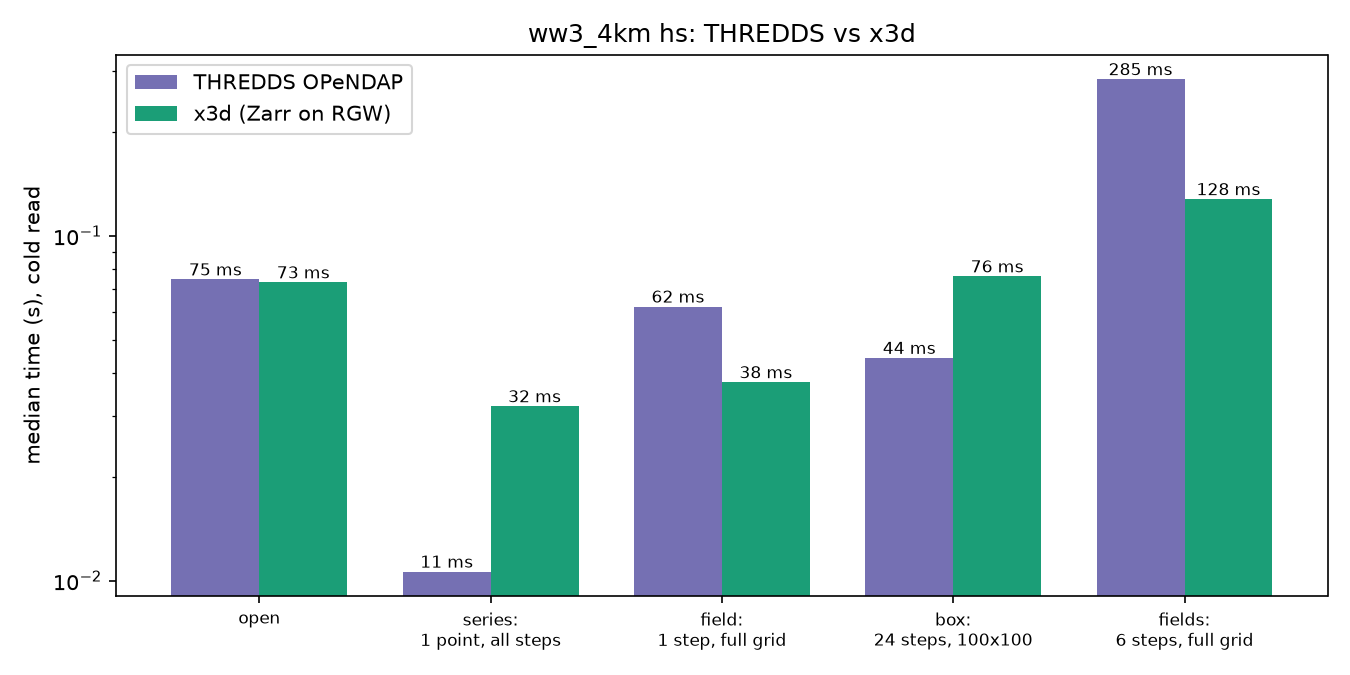
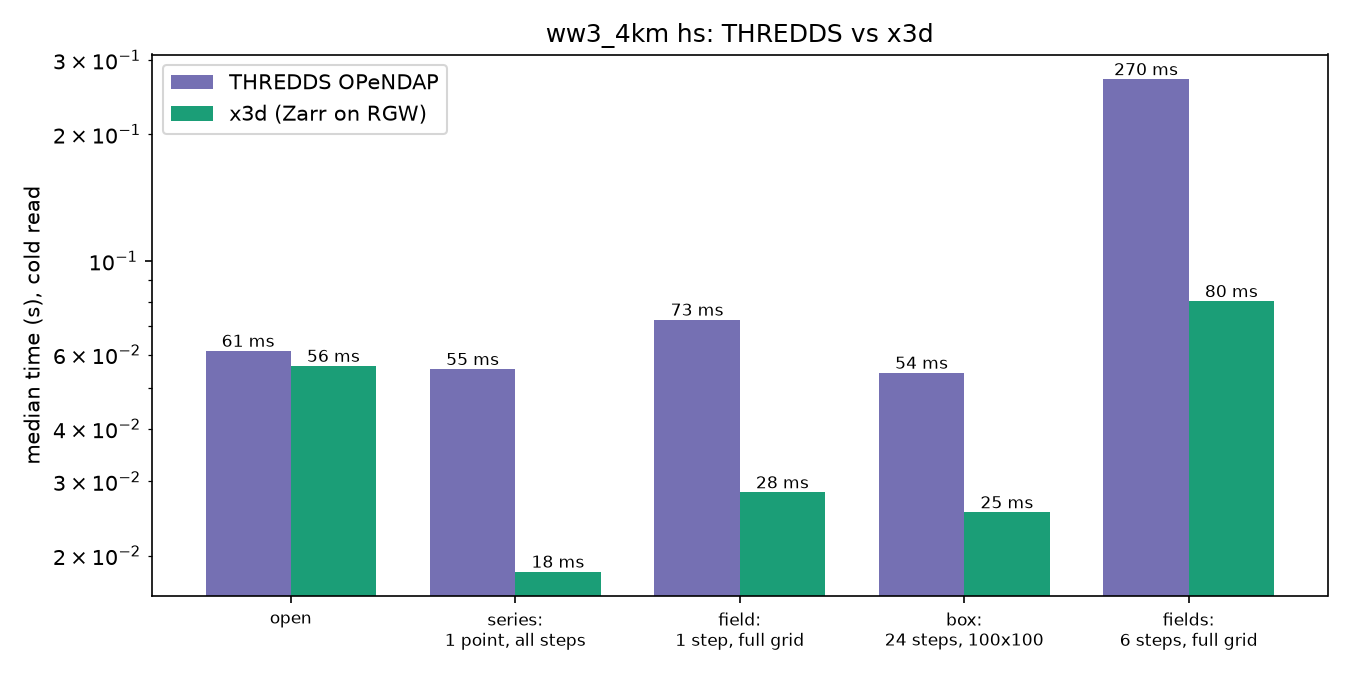
Cache DNS lookups in the HTTP store
ureq re-resolves the host on every request, even on pooled connections,
costing ~12 ms per request on a stub resolver. Wrap the default resolver
with a 60 s cache. Regenerate benchmark plot.

diff --git a/src/store.rs b/src/store.rs
@@ -2,8 +2,40 @@
 
 use crate::error::{Error, Result};
 use std::io::{Read, Seek, SeekFrom};
+use std::collections::HashMap;
 use std::path::PathBuf;
-use std::time::Duration;
+use std::sync::Mutex;
+use std::time::{Duration, Instant};
+use ureq::Agent;
+use ureq::config::Config;
+use ureq::unversioned::resolver::{DefaultResolver, ResolvedSocketAddrs, Resolver};
+use ureq::unversioned::transport::{DefaultConnector, NextTimeout};
+use ureq::http::Uri;
+
+/// ureq resolves the host for every request, even when it reuses a pooled connection. On a
+/// stub resolver that costs ~12 ms (uncached AAAA lookup) per request, several times the cost of
+/// the request itself, so remember lookups for a while.
+#[derive(Debug, Default)]
+struct CachingResolver {
+    inner: DefaultResolver,
+    cache: Mutex<HashMap<String, (Instant, ResolvedSocketAddrs)>>,
+}
+
+const DNS_TTL: Duration = Duration::from_secs(60);
+
+impl Resolver for CachingResolver {
+    fn resolve(&self, uri: &Uri, config: &Config, timeout: NextTimeout) -> std::result::Result<ResolvedSocketAddrs, ureq::Error> {
+        let key = uri.authority().map(|a| a.to_string()).unwrap_or_default();
+        if let Some((at, addrs)) = self.cache.lock().unwrap().get(&key) {
+            if at.elapsed() < DNS_TTL {
+                return Ok(addrs.clone());
+            }
+        }
+        let addrs = self.inner.resolve(uri, config, timeout)?;
+        self.cache.lock().unwrap().insert(key, (Instant::now(), addrs.clone()));
+        Ok(addrs)
+    }
+}
 
 #[derive(Debug, Clone, Copy, PartialEq, Eq)]
 pub enum ByteRange {
@@ -26,12 +58,12 @@ impl Store {
     /// `root` is an `http(s)://` URL, a `file://` URL or a plain path.
     pub fn open(root: &str) -> Store {
         if root.starts_with("http://") || root.starts_with("https://") {
-            let agent: ureq::Agent = ureq::Agent::config_builder()
+            let config = Agent::config_builder()
                 .http_status_as_error(false)
                 .timeout_global(Some(Duration::from_secs(60)))
                 .max_idle_connections_per_host(32)
-                .build()
-                .into();
+                .build();
+            let agent = Agent::with_parts(config, DefaultConnector::default(), CachingResolver::default());
             Store::Http { base: root.trim_end_matches('/').to_string(), agent }
         } else {
             let p = root.strip_prefix("file://").unwrap_or(root);
